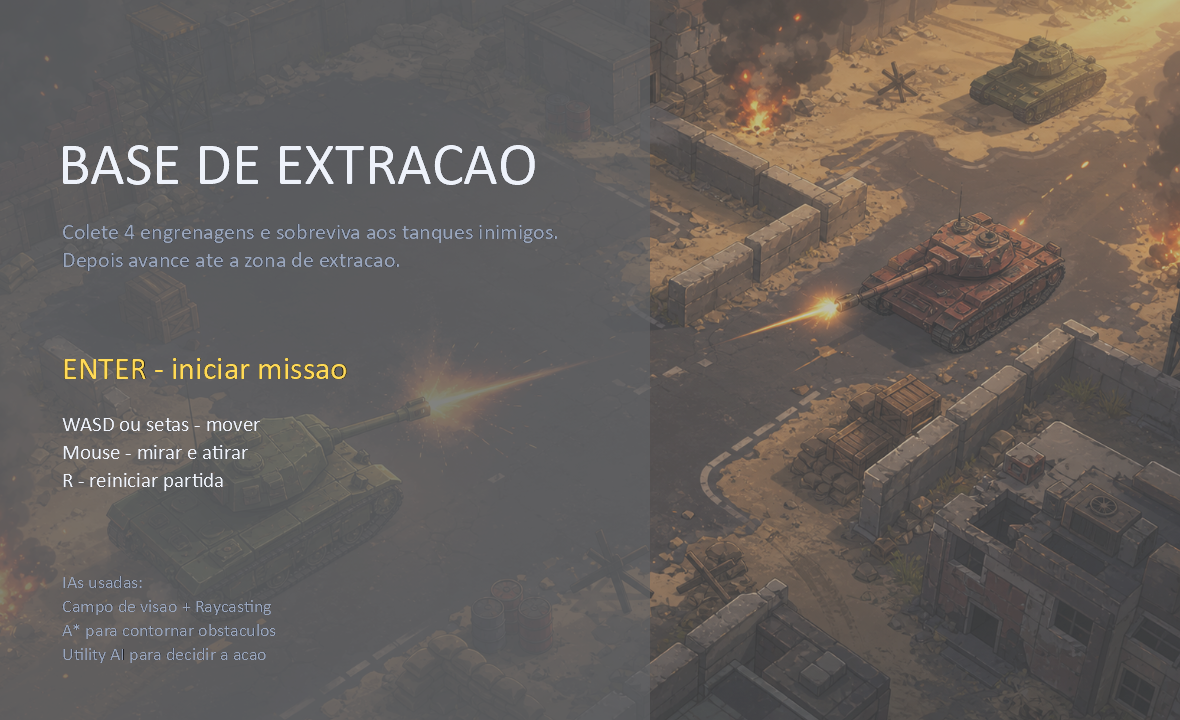
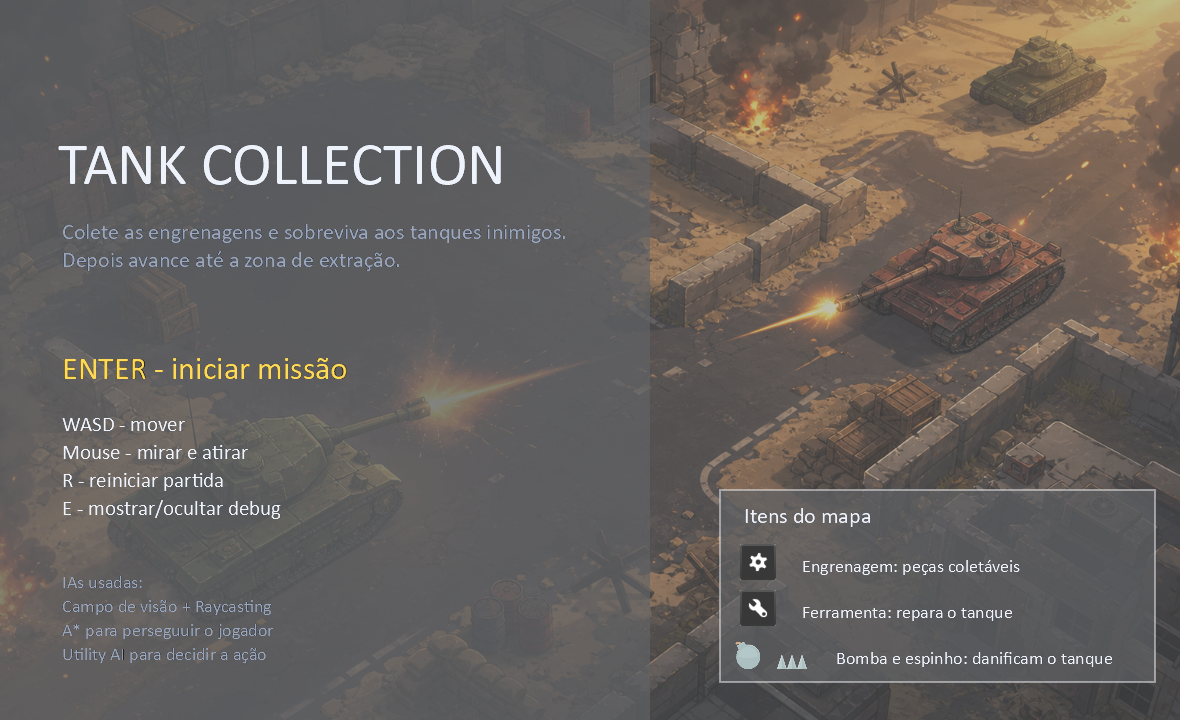
atu

diff --git a/main.py b/main.py
@@ -997,6 +997,10 @@ class TelaMenu(arcade.View):
     def __init__(self) -> None:
         super().__init__()
         self.textura_menu = arcade.load_texture(TEXTURA_MENU)
+        self.textura_engrenagem = arcade.load_texture(TEXTURA_ENGRENAGEM)
+        self.textura_ferramenta = arcade.load_texture(TEXTURA_VIDA)
+        self.textura_bomba = arcade.load_texture(TEXTURA_BOMBA)
+        self.textura_espinho = arcade.load_texture(TEXTURA_SPIKES)
 
     def on_show_view(self) -> None:
         arcade.set_background_color(COR_FUNDO)
@@ -1042,6 +1046,38 @@ class TelaMenu(arcade.View):
         ]
         for indice, texto in enumerate(textos_ia):
             arcade.draw_text(texto, 62, 132 - indice * 24, CINZA, 14, anchor_x="left")
+
+        self.desenhar_legenda_itens()
+
+    def desenhar_icone_menu(self, textura: arcade.Texture, x: float, y: float, tamanho: float) -> None:
+        arcade.draw_texture_rect(
+            texture=textura,
+            rect=retangulo_centralizado(x, y, tamanho, tamanho),
+        )
+
+    def desenhar_legenda_itens(self) -> None:
+        esquerda = 720
+        direita = 1155
+        baixo = 38
+        cima = 230
+
+        arcade.draw_lrbt_rectangle_filled(esquerda, direita, baixo, cima, (4, 7, 12, 158))
+        arcade.draw_lrbt_rectangle_outline(esquerda, direita, baixo, cima, (238, 242, 250, 92), 2)
+        arcade.draw_text("Itens do mapa", esquerda + 24, cima - 34, BRANCO, 17, anchor_x="left")
+
+        linhas = [
+            (self.textura_engrenagem, "Engrenagem: peças coletáveis"),
+            (self.textura_ferramenta, "Ferramenta: repara o tanque"),
+        ]
+        for indice, (textura, texto) in enumerate(linhas):
+            y = cima - 76 - indice * 46
+            self.desenhar_icone_menu(textura, esquerda + 38, y + 4, 36)
+            arcade.draw_text(texto, esquerda + 82, y - 6, BRANCO, 14, anchor_x="left")
+
+        y_perigo = cima - 168
+        self.desenhar_icone_menu(self.textura_bomba, esquerda + 28, y_perigo + 4, 30)
+        self.desenhar_icone_menu(self.textura_espinho, esquerda + 72, y_perigo + 4, 30)
+        arcade.draw_text("Bomba e espinho: danificam o tanque", esquerda + 116, y_perigo - 6, BRANCO, 14, anchor_x="left")
 
     def on_key_press(self, key: int, modifiers: int) -> None:
         if key == arcade.key.ENTER: